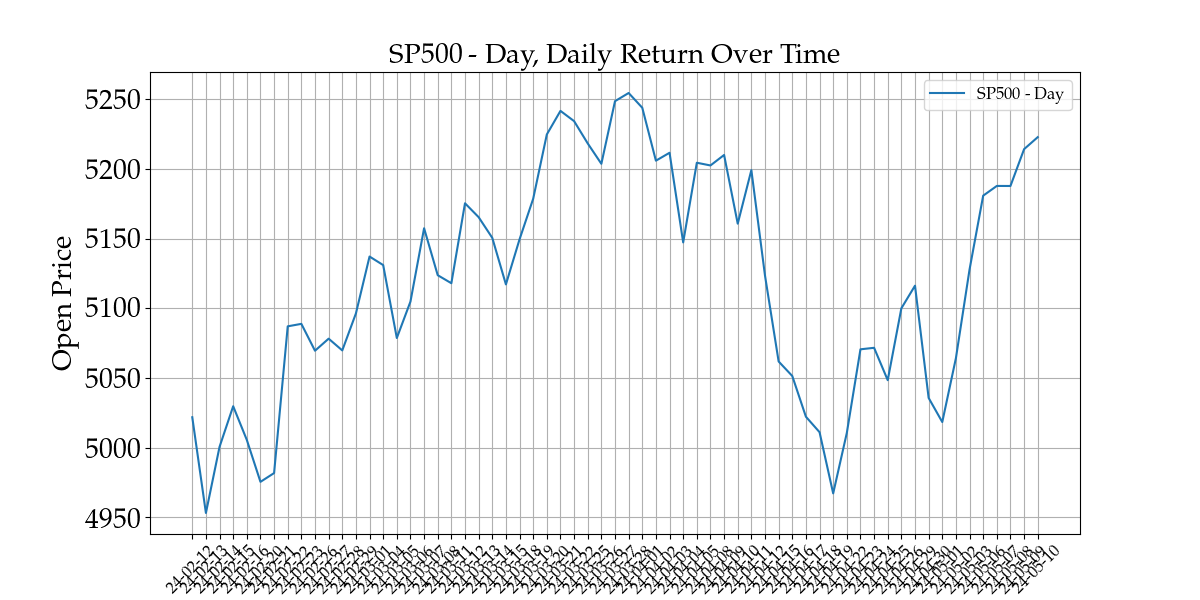
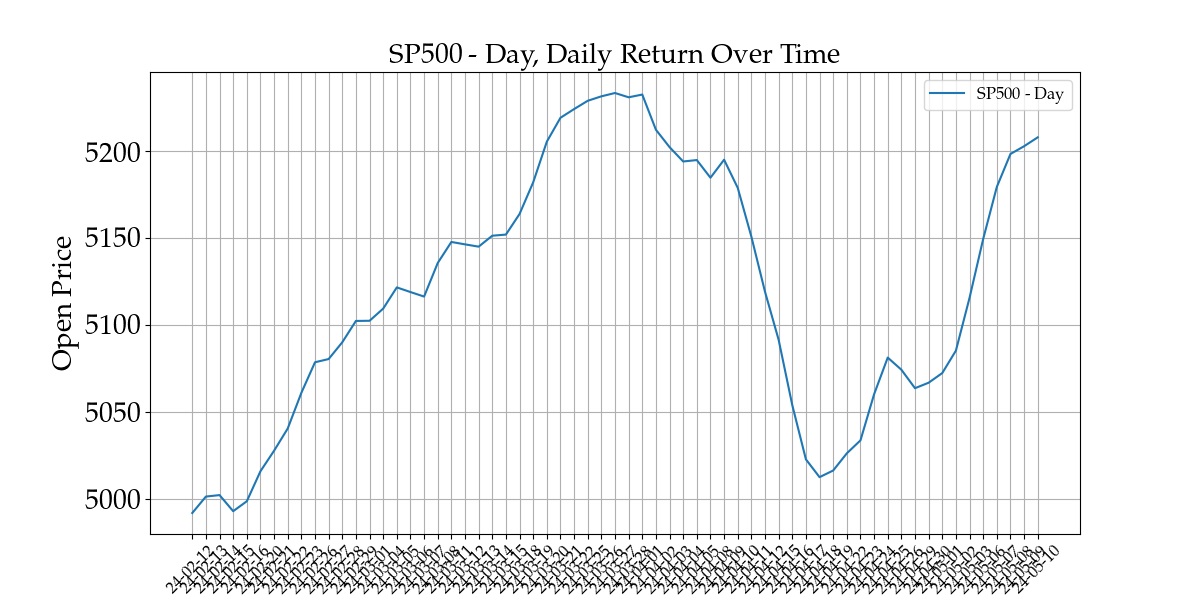
add sliding window denoise
add sliding window denoise

diff --git a/Multi-Input_GPR/main.py b/Multi-Input_GPR/main.py
@@ -18,7 +18,7 @@ import tensorflow as tf
 
 class MultiInputGPR:
     
-    def __init__(self, ticker, features, train_start_date, train_end_date, test_start_date, test_end_date, kernel_combinations, kernels, threshold, removal_percentage, predict_Y='close', isFixedLikelihood=False):
+    def __init__(self, ticker, features, train_start_date, train_end_date, test_start_date, test_end_date, kernel_combinations, kernels, threshold, removal_percentage, window_size, predict_Y='close', isFixedLikelihood=False):
         self.ticker = ticker
         self.features = features
         self.kernel_combinations = kernel_combinations
@@ -27,7 +27,7 @@ class MultiInputGPR:
         self.train_end_date = train_end_date
         self.test_start_date = test_start_date
         self.test_end_date = test_end_date
-        self.data_handler = DataHandler(train_start_date, train_end_date, test_start_date, test_end_date)
+        self.data_handler = DataHandler(train_start_date, train_end_date, test_start_date, test_end_date, window_size)
         self.model_trainer = ModelTrainer(kernel_combinations)
         self.visualizer = Visualizer()
         self.predict_Y = predict_Y
@@ -252,8 +252,8 @@ class MultiInputGPR:
     # Fetch Train + Test data 
     def run_step_3(self) -> None:
         #1. Fetch the actual values of to-be-predicted stock data(e.g. APPL stock price)
-        X_AAPL_tf, Y_AAPL_tf, AAPL_dates, (AAPL_mean, AAPL_std), (x_mean, x_std) = self.data_handler.process_data("Stocks", self.ticker, "d", self.train_start_date, self.train_end_date, self.predict_Y, isFetch=True)
-        X_AAPL_full_tf, Y_AAPL_full_tf, AAPL_full_dates, (AAPL_full_mean, AAPL_full_std), (x_mean_full, x_std_full) = self.data_handler.process_data("Stocks", self.ticker, "d", self.train_start_date, self.test_end_date, self.predict_Y, isFetch=True)
+        X_AAPL_tf, Y_AAPL_tf, AAPL_dates, (AAPL_mean, AAPL_std), (x_mean, x_std) = self.data_handler.process_data("Stocks", self.ticker, "d", self.train_start_date, self.train_end_date, self.predict_Y, isFetch=True, isDenoised=True)
+        X_AAPL_full_tf, Y_AAPL_full_tf, AAPL_full_dates, (AAPL_full_mean, AAPL_full_std), (x_mean_full, x_std_full) = self.data_handler.process_data("Stocks", self.ticker, "d", self.train_start_date, self.test_end_date, self.predict_Y, isFetch=True, isDenoised=False)
 
         #2. Fetch input data(e.g. Brent Oil / MSFT stock price)
         # X columns vector for training
@@ -262,14 +262,14 @@ class MultiInputGPR:
         X_full = []
         for feature in self.features:
             if feature == "Brent_Oil" or feature == "DXY" or feature == "XAU_USD":
-                X_tf, Y_tf, dates, (y_mean, y_std), (x_mean, x_std) = self.data_handler.process_data("Commodities", feature, "d", self.train_start_date, self.train_end_date, "close", isFetch=False)
-                X_full_tf, Y_full_tf, full_dates, (y_full_mean, y_full_std), (x_full_mean, x_full_std)= self.data_handler.process_data("Commodities", feature, "d", self.train_start_date, self.test_end_date, "close", isFetch=False)
+                X_tf, Y_tf, dates, (y_mean, y_std), (x_mean, x_std) = self.data_handler.process_data("Commodities", feature, "d", self.train_start_date, self.train_end_date, "close", isFetch=False, isDenoised=True)
+                X_full_tf, Y_full_tf, full_dates, (y_full_mean, y_full_std), (x_full_mean, x_full_std)= self.data_handler.process_data("Commodities", feature, "d", self.train_start_date, self.test_end_date, "close", isFetch=False, isDenoised=True)
             elif feature == "SP500" or feature == "NasDaq100":
-                X_tf, Y_tf, dates, (y_mean, y_std), (x_mean, x_std) = self.data_handler.process_data("Stocks", feature, "d", self.train_start_date, self.train_end_date, "close", isFetch=False)
-                X_full_tf, Y_full_tf, full_dates, (y_full_mean, y_full_std), (x_full_mean, x_full_std) = self.data_handler.process_data("Stocks", feature, "d", self.train_start_date, self.test_end_date, "close", isFetch=False)
+                X_tf, Y_tf, dates, (y_mean, y_std), (x_mean, x_std) = self.data_handler.process_data("Stocks", feature, "d", self.train_start_date, self.train_end_date, "close", isFetch=False, isDenoised=True)
+                X_full_tf, Y_full_tf, full_dates, (y_full_mean, y_full_std), (x_full_mean, x_full_std) = self.data_handler.process_data("Stocks", feature, "d", self.train_start_date, self.test_end_date, "close", isFetch=False, isDenoised=True)
             else:
-                X_tf, Y_tf, dates, (y_mean, y_std), (x_mean, x_std) = self.data_handler.process_data("Stocks", feature, "d", self.train_start_date, self.train_end_date, "close", isFetch=False)
-                X_full_tf, Y_full_tf, full_dates, (y_full_mean, y_full_std), (x_full_mean, x_full_std) = self.data_handler.process_data("Stocks", feature, "d", self.train_start_date, self.test_end_date, "close", isFetch=True)
+                X_tf, Y_tf, dates, (y_mean, y_std), (x_mean, x_std) = self.data_handler.process_data("Stocks", feature, "d", self.train_start_date, self.train_end_date, "close", isFetch=False, isDenoised=True)
+                X_full_tf, Y_full_tf, full_dates, (y_full_mean, y_full_std), (x_full_mean, x_full_std) = self.data_handler.process_data("Stocks", feature, "d", self.train_start_date, self.test_end_date, "close", isFetch=True, isDenoised=True)
             visualizer = Visualizer()
             visualizer.plot_data(X_tf, Y_tf, dates, title=f'{feature} - Day', mean=y_mean, std=y_std, filename=f'../plots/multi-input/{feature}_Day.png')
 
@@ -303,7 +303,7 @@ class MultiInputGPR:
         for composite_kernel in self.kernel_combinations:
             if self.isFixed:
                 model = gpflow.models.GPR(
-                    (X, Y), kernel=deepcopy(composite_kernel), noise_variance=1e-1
+                    (X, Y), kernel=deepcopy(composite_kernel), noise_variance=1e-3
                 )
                 
                 model = ModelTrainer.train_model(model)
@@ -363,6 +363,7 @@ if __name__ == "__main__":
         test_start_date=test_start_date,
         test_end_date=test_end_date,
         kernel_combinations=kernel_combinations, 
+        window_size=5,
         kernels=kernels,
         threshold=0.30,
         predict_Y=predict_Y,

diff --git a/Multi-Input_GPR/data_handler.py b/Multi-Input_GPR/data_handler.py
@@ -7,11 +7,12 @@ import tensorflow as tf
 from OrdinalEntroPy.OrdinalEntroPy import PE, WPE, RPE, DE, RDE, RWDE
 
 class DataHandler:
-    def __init__(self, train_start_date, train_end_date, test_start_date, test_end_date):
+    def __init__(self, train_start_date, train_end_date, test_start_date, test_end_date, window_size=3):
         self.train_start_date = train_start_date
         self.train_end_date = train_end_date
         self.test_start_date = test_start_date
         self.test_end_date = test_end_date
+        self.window_size = window_size
     
     def fetch_and_save_data(self, ticker, period, start_date, end_date):
         load_dotenv()
@@ -29,8 +30,22 @@ class DataHandler:
         os.makedirs(os.path.dirname(csv_file_path), exist_ok=True)
         df.to_csv(csv_file_path, index=False)
     
+    def sliding_window_denoise(self, data, window_size, function=np.mean):
+        """
+        Apply sliding window denoising to a pandas Series.
+        """
+        # Use a centered window without allowing NaN results
+        denoised = data.rolling(window=window_size, center=True, min_periods=1).apply(function)
+        
+        # Fill NaN values at the edges
+        denoised.ffill()  # Forward fill
+        denoised.bfill()  # Backward fill for any remaining NaNs at the start
+        
+        return denoised
+
+    
     # Process single file data, return normalized X and Y, X as day_of_year, Y as return
-    def process_data(self, file_type, ticker, period, start_date, end_date, predict_Y='close', normalize=True, isFetch=False):
+    def process_data(self, file_type, ticker, period, start_date, end_date, predict_Y='close', normalize=True, isFetch=False, isDenoised=False):
         if isFetch:
             self.fetch_and_save_data(ticker, period, start_date, end_date)
             print(f'{ticker} data from {start_date} to {end_date} fetched and saved')
@@ -47,6 +62,13 @@ class DataHandler:
         first_return = df['return'].iloc[1]
         df.fillna({'return': first_return}, inplace=True)
         df['intraday_return'] = (df['close'] - df['open']) / df['open']
+
+        if isDenoised:
+            df['close'] = self.sliding_window_denoise(df['close'], self.window_size)
+
+            # Fill NaN values after denoising
+            df.ffill()
+
         
         return self.normalize_and_reshape(df, y_column=predict_Y, x_column='day_of_year')
     
@@ -144,6 +166,7 @@ class DataHandler:
         
         X_tf = tf.convert_to_tensor(X, dtype=tf.float64)
         Y_tf = tf.convert_to_tensor(Y, dtype=tf.float64)
+
 
         return X_tf, Y_tf, df['date'], (y_mean, y_std), (x_mean, x_std)
     

diff --git a/Multi-Input_GPR/model_trainer.py b/Multi-Input_GPR/model_trainer.py
@@ -14,7 +14,7 @@ class ModelTrainer:
 # Technically, a kernel is a function that takes values and returns a covariance matrix telling us how those 
 #  coordinates relate to each other. However, for many users it may be more useful to develop an intuitive understanding of how the different kernels behave than to study the maths.
 # A kernel is sometimes also known as a covariance function.
-    def train_model(self, model: gpflow.models.GPR) -> gpflow.models.GPR:
+    def train_model(model: gpflow.models.GPR) -> gpflow.models.GPR:
         #model = gpflow.models.GPR((X, Y), kernel=deepcopy(kernel), noise_variance=1e-3)
         gpflow.set_trainable(model.likelihood, False)
         opt = gpflow.optimizers.Scipy()
@@ -23,7 +23,7 @@ class ModelTrainer:
 
         return model
     
-    def train_likelihood(self, X, Y, composite_kernel, starting_variances=[1e-5, 1e-3, 1e-1, 1.0]):
+    def train_likelihood(X, Y, composite_kernel, starting_variances=[1e-5, 1e-3, 1e-1, 1.0]):
         best_model = None
         best_loss = float('inf')
 
